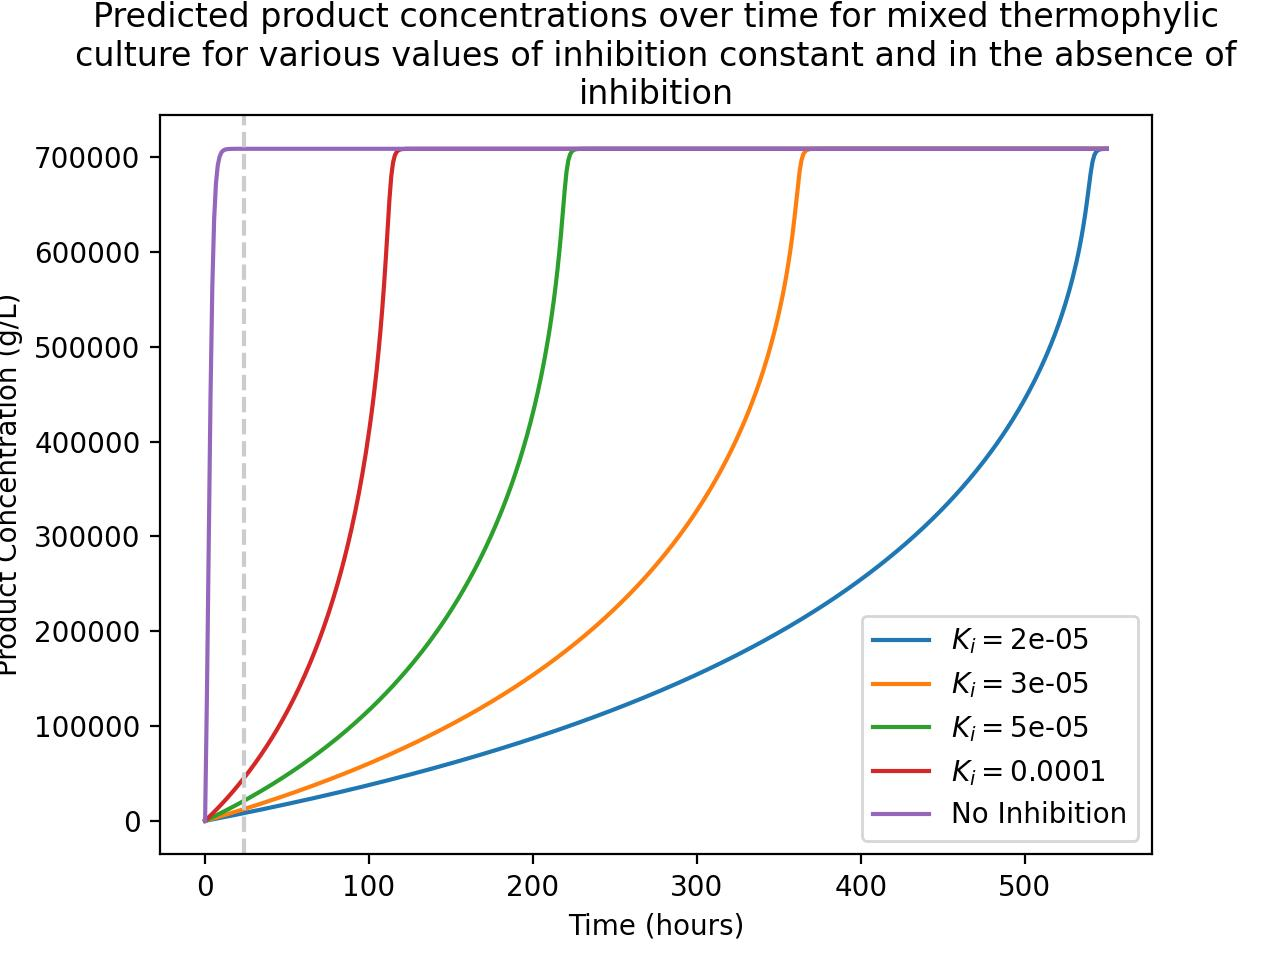
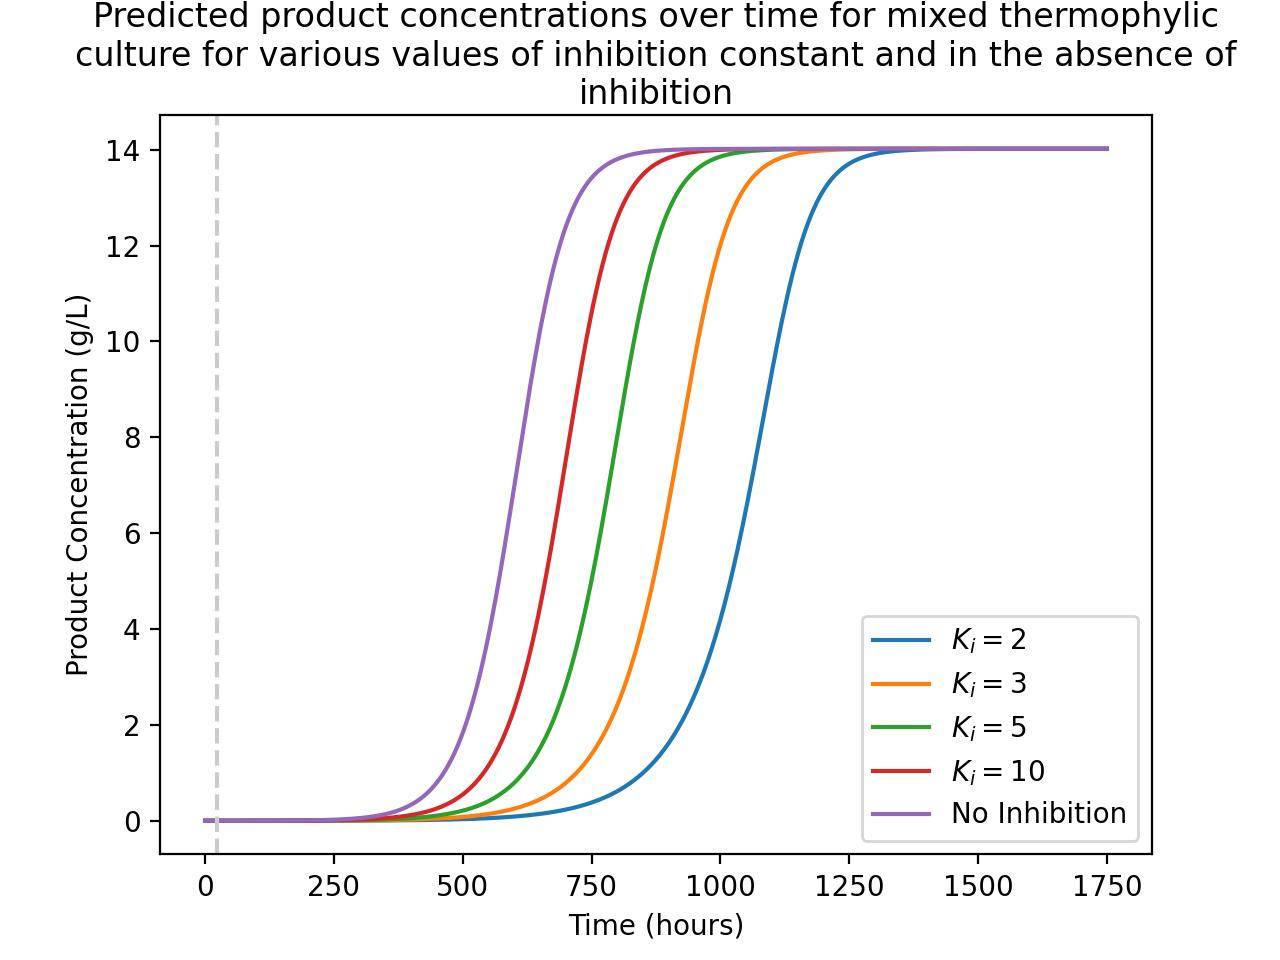
Add toggle for displaying fit report

diff --git a/6_mixed_thermophylic.py b/6_mixed_thermophylic.py
@@ -16,6 +16,7 @@ from scipy.integrate import odeint
 from lmfit import Parameters, fit_report, minimize
 from inhibition import plot_inhibition_curves, haldane_with_products
 from control import show_fig
+from control import fit_report_toggle
 
 #######################################################################################
 
@@ -33,8 +34,8 @@ state_names = header[1]
 print('\nRaw extracted states')
 print(state_names, '\n', states_m)
 
-# Convert biomass concentration (10^8 cells/ml) to (cells/L)
-states_m = states_m * 1e8 / 1e3
+# Convert biomass concentration (10^8 cells/ml) to (g/L)
+states_m = (states_m / (1e9)) * 1e8 / 1e3 # (grams/cell) * (order of cells) / (ml/L)
 state_names = 'Biomass Concentration (cells/L)'
 print('\nProcessed measured states')
 print(state_names, '\n', states_m)
@@ -46,7 +47,7 @@ print(header[0], times_m)
 
 # Set initial states
 print('\nInitial measured states')
-initial_states = [states_m[0], 20, 0] # 20g/L substrate in Luria broth + 5 g glycine
+initial_states = [states_m[0], 10, 0] # 20g/L substrate in Luria broth + 5 g glycine
 print(initial_states)
 
 
@@ -76,7 +77,7 @@ Yxs = 2
 Yps = 0.5445
 
 params = Parameters()
-params.add('umax', value= umax, min=0, vary=True)
+params.add('umax', value= umax, min=0.1, vary=True)
 params.add('Ks', value= Ks, min=0, vary=True)
 params.add('Yxs', value= Yxs, min=0, vary=True)
 params.add('Yps', value= Yxs, min=0, vary=True)
@@ -112,6 +113,8 @@ def regress( params ):
 method = 'Nelder'
 result = minimize(regress, params, method=method)
 result.params.pretty_print()
+if fit_report_toggle:
+    print(fit_report(result))
 
 # Redefine fitted model params
 umax = result.params['umax'].value
@@ -124,8 +127,8 @@ Yps = result.params['Yps'].value
 # Plot inhibition curves
 
 xvline = 24
-times_p = sorted( np.concatenate( ([xvline], np.linspace(1e-5, 550, 500)) ) )
-Kis = np.asarray([2, 3, 5, 10, ]) * 1 / 100000
+times_p = sorted( np.concatenate( ([xvline], np.linspace(1e-5, 1750, 600)) ) )
+Kis = np.asarray([2, 3, 5, 10, ])
 args = (umax, Ks, Yps, Yxs)
 
 c_monod = odeint(monod, initial_states, times_p, args=args)
@@ -150,5 +153,5 @@ plot_inhibition_curves(
     measurement_times=times_m,
     # cells=True,
     # scale_cX=None#1e8
-    cX_label_y='Biomass Concentration ($10^{8}$ cells/L)'
+    # cX_label_y='Biomass Concentration ($10^{8}$ cells/L)'
 )

diff --git a/7_P_brassicacearum.py b/7_P_brassicacearum.py
@@ -15,6 +15,7 @@ from scipy.integrate import odeint
 from lmfit import Parameters, fit_report, minimize
 from inhibition import plot_inhibition_curves, haldane_with_products
 from control import show_fig
+from control import fit_report_toggle
 
 #######################################################################################
 
@@ -36,7 +37,7 @@ print(state_names, '\n', states_m)
 # Convert optimal density to biomass concentration (g/L) and mg to g/L
 conversion_factor_OD = 0.24
 states_m[:, 0] = states_m[:, 0] * conversion_factor_OD
-states_m[:, 1] = states_m[:, 1] / 1000
+states_m[:, 1] = states_m[:, 1] / 1000 # * (1000 ml / L)
 state_names[0] = 'Biomass Concentration (g/L)'
 state_names[1] = 'Cyanide Concentration (g/L)'
 
@@ -47,7 +48,7 @@ print(header[0], times_m)
 
 # Set initial states
 innoculum_size_0 = 1.3e8
-conversion_factor_IS =  10e-10 # 10e-8 # grams/cell
+conversion_factor_IS = 10e-10 #  # grams/cell
 cX_0 =  innoculum_size_0 * conversion_factor_IS
 states_m[0, 0] = cX_0
 print('\nProcessed measured states')
@@ -118,6 +119,8 @@ def regress( params ):
 method = 'Nelder'
 result = minimize(regress, params, method=method)
 result.params.pretty_print()
+if fit_report_toggle:
+    print(fit_report(result))
 
 # Redefine fitted model params
 umax = result.params['umax'].value
@@ -189,7 +192,8 @@ plt.ylabel( 'Biomass Concentration (g/L)' )
 title = 'Biomass concentrations over time for ' + mic_name + ': comparison of measured data with Monod model prediction'
 plt.title( title, loc='center', wrap=True )
 plt.legend()
-plt.show()
+if show_fig:
+    plt.show()
 
 
 c_monod = odeint(monod, initial_states, times, args=args)
@@ -214,4 +218,5 @@ plt.ylabel( 'Product Concentration (g/L)' )
 title = 'Product concentrations over time for ' + mic_name + ': comparison of measured data with Monod model prediction'
 plt.title( title, loc='center', wrap=True )
 plt.legend()
-plt.show()
+if show_fig:
+    plt.show()

diff --git a/4_F_caldus.py b/4_F_caldus.py
@@ -23,6 +23,7 @@ from numpy.matlib import repmat
 from scipy.integrate import odeint, simps
 from lmfit import Parameters, minimize, fit_report
 import pandas as pd
+from control import fit_report_toggle
 
 mic_name = 'F. Caldus'
 print( '\n'*2, 'Summary of params used for species ', mic_name)
@@ -142,8 +143,9 @@ def regress(params):
 METHOD =  'nelder-mead' # 'least-sq' #
 result = minimize(regress, params, method=METHOD)
 result.params.pretty_print()
-print(fit_report(result))
-print(result.residual)
+if fit_report_toggle:
+    print(fit_report(result))
+    print(result.residual)
 
 
 

diff --git a/1b_PC8R7N2_1.py b/1b_PC8R7N2_1.py
@@ -8,6 +8,7 @@ import matplotlib.pyplot as plt
 import numpy as np
 from scipy.integrate import odeint
 from lmfit import Parameters, fit_report, minimize
+from control import fit_report_toggle
 
 mic_name = 'PC8R7N2.1 (lower yield)'
 print( '\n'*2, 'Summary of params used for species ', mic_name)
@@ -87,7 +88,8 @@ t = np.linspace(1e-5, tx[-1], 151)
 METHOD = 'Nelder'
 result = minimize(regress,params, method=METHOD)
 result.params.pretty_print()
-#print(fit_report(result))
+if fit_report_toggle:
+    print(fit_report(result))
 
 fit_data = 1
 

diff --git a/1a_PC8R7N2_1.py b/1a_PC8R7N2_1.py
@@ -8,6 +8,7 @@ import matplotlib.pyplot as plt
 import numpy as np
 from scipy.integrate import odeint
 from lmfit import Parameters, fit_report, minimize
+from control import fit_report_toggle
 
 mic_name = 'PC8R7N2.1'
 print( '\n'*2, 'Summary of params used for species ', mic_name)
@@ -87,7 +88,8 @@ t = np.linspace(1e-5,tx[-1],151)
 METHOD = 'Nelder'
 result = minimize(regress, params, method=METHOD)
 result.params.pretty_print()
-#print(fit_report(result))
+if fit_report_toggle:
+    print(fit_report(result))
 
 fit_data = 1
 

diff --git a/2_FBOC10N2_7.py b/2_FBOC10N2_7.py
@@ -7,6 +7,7 @@ import matplotlib.pyplot as plt
 import numpy as np
 from scipy.integrate import odeint
 from lmfit import Parameters, fit_report, minimize
+from control import fit_report_toggle
 
 mic_name = 'FBOC10N2.7'
 print( '\n'*2, 'Summary of params used for species ', mic_name)
@@ -80,7 +81,8 @@ t = np.linspace(1e-5,tx[-1],151)
 METHOD = 'Nelder'
 result = minimize(regress,params, method=METHOD)
 result.params.pretty_print()
-#print(fit_report(result))
+if fit_report_toggle:
+    print(fit_report(result))
 
 fit_data = 1
 

diff --git a/3_FBOC9N2_6.py b/3_FBOC9N2_6.py
@@ -6,6 +6,7 @@ import matplotlib.pyplot as plt
 import numpy as np
 from scipy.integrate import odeint
 from lmfit import Parameters, fit_report, minimize
+from control import fit_report_toggle
 
 mic_name = 'FBOC9N2.6'
 print( '\n'*2, 'Summary of params used for species ', mic_name)
@@ -72,7 +73,8 @@ t = np.linspace(1e-5,tx[-1],151)
 METHOD = 'Nelder'
 result = minimize(regress,params, method=METHOD)
 result.params.pretty_print()
-#print(fit_report(result))
+if fit_report_toggle:
+    print(fit_report(result))
 
 fit_data = 1
 

diff --git a/5_A_niger.py b/5_A_niger.py
@@ -7,6 +7,7 @@ import matplotlib.pyplot as plt
 import numpy as np
 from scipy.integrate import odeint
 from lmfit import Parameters, fit_report, minimize
+from control import fit_report_toggle
 
 mic_name = 'A. niger'
 print( '\n'*2, 'Summary of params used for species ', mic_name)
@@ -79,7 +80,8 @@ t = np.linspace(1e-5,tx[-1],151)
 METHOD = 'Nelder'
 result = minimize(regress,params, method=METHOD)
 result.params.pretty_print()
-#print(fit_report(result))
+if fit_report_toggle:
+    print(fit_report(result))
 
 fit_data = 1
 

diff --git a/control.py b/control.py
@@ -1,1 +1,2 @@
-show_fig = False
+show_fig = True
+fit_report_toggle = True
